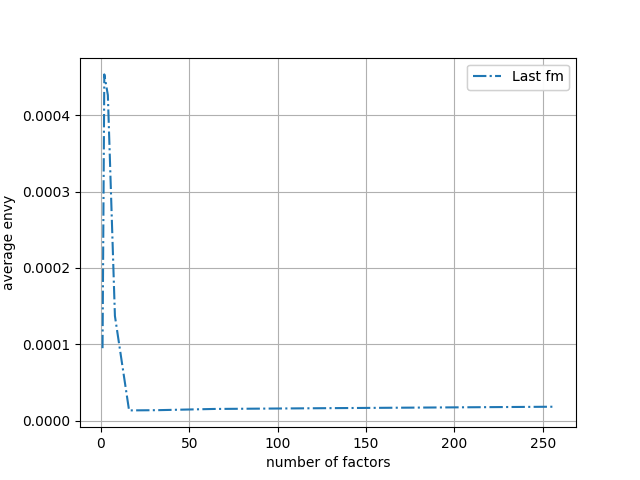
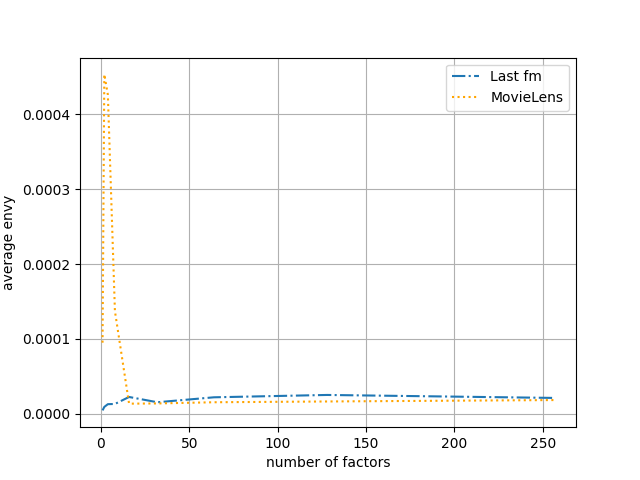
MovieLens gets processed too

Changed region(s): [[0.0312, 0.125, 0.9062, 0.75], [0.1562, 0.75, 0.875, 0.875], [0.0312, 0.8438, 0.125, 0.9062]]

diff --git a/vN/src/main.py b/vN/src/main.py
@@ -16,6 +16,7 @@ if __name__ == "__main__":
     os.environ["OPENBLAS_NUM_THREADS"] = "1"
     my_globals = globals()
 
+    # Data sets to perform experiments on
     data_sets = {   0: {"name": "movie",
                         "filename": "user_movie.py",
                         "vars": {
@@ -26,7 +27,7 @@ if __name__ == "__main__":
                             "rewards": None,
                             "expec_rewards": None
                         },
-                        "experiments_results": None
+                        "experiments_results": {}
                         },
                     1: {"name": "fm",
                         "filename": "user_artist.py",
@@ -38,12 +39,14 @@ if __name__ == "__main__":
                             "rewards": None,
                             "expec_rewards": None
                         },
-                        "experiments_results": None
+                        "experiments_results": {}
                     }
                 }
 
     # For all datas sets simulate recommendation system and run experiments
     for i, data_set in data_sets.items(): 
+        print("Starting for data set", data_set["name"], "...")
+
         # Define 'GLOBALS'
         if data_set["name"] == "fm":
             # Infix of folder to perform I/O-operations on for specifically this data set (reading, writing etc.)
@@ -62,8 +65,6 @@ if __name__ == "__main__":
         # Generate ground truth of user-item preferences
         exec(compile(open(filename, "rb").read(), filename, "exec"))
 
-        exit()
-
         ## LOAD: Load ground truth
         io.load(IO_INFIX + "ground_truth", my_globals)
 
@@ -72,7 +73,7 @@ if __name__ == "__main__":
             ground_truth = ground_truth_fm
         else:
             print("Loading ground truth MOVIE...")
-            ground_truth = ground_truth_movie
+            ground_truth = ground_truth_mv
 
         data_set["vars"]["ground_truth"] = ground_truth
 
@@ -107,7 +108,7 @@ if __name__ == "__main__":
             recommendation_system_est_models = recommendation_system_est_models_fm
         else:
             print("Loading recommender preference estimation models MOVIE...")
-            recommendation_system_est_models = recommendation_system_est_models_movie
+            recommendation_system_est_models = recommendation_system_est_models_mv
 
         data_set["vars"]["recommendation_system_est_models"] = recommendation_system_est_models
 
@@ -167,8 +168,8 @@ if __name__ == "__main__":
         else:
             print("Loading rewards MOVIE...")
             print("Loading expectations rewards...")
-            rewards = rewards_movie
-            expec_rewards = expec_rewards_movie
+            rewards = rewards_mv
+            expec_rewards = expec_rewards_mv
 
         data_set["vars"]["rewards"] = rewards
         data_set["vars"]["expec_rewards"] = expec_rewards
@@ -219,7 +220,13 @@ if __name__ == "__main__":
         io.load(IO_INFIX + experiment_dir + avg_envy_user_file, my_globals)
         io.load(IO_INFIX + experiment_dir + prop_envious_users_file, my_globals)
 
-        plot.plot_experiment_5_1A([avg_envy_user])
+        data_set["experiments_results"]["5.1"] = {
+                                                    envy_free_file: envy_free,
+                                                    avg_envy_user_file: avg_envy_user,
+                                                    prop_envious_users_file: prop_envious_users
+                                                }        
     
+    plot.plot_experiment_5_1A([data_sets[0]["experiments_results"]["5.1"]["avg_envy_user"], data_sets[1]["experiments_results"]["5.1"]["avg_envy_user"]])
+
     # # Try algorithm for one model
     # envy.OCEF(policies_fm[latent_factor], rewards_fm, 0, 3, 1, 1, 0)

diff --git a/vN/src/lib/plot.py b/vN/src/lib/plot.py
@@ -4,20 +4,16 @@ import matplotlib.pyplot as plt
 import constant
 
 def plot_experiment_5_1A(data):
-    data_1 = data[0]
+    fm = data[0]
+    mv = data[1]
 
     fig, ax = plt.subplots()
-    line1, = ax.plot(data_1.keys(), data_1.values(), label="Last fm", linestyle='-.')
+    plt.plot(fm.keys(), fm.values(), label="Last fm", linestyle='-.')
+    plt.plot(mv.keys(), mv.values(), label="MovieLens", linestyle='dotted', color="orange")
 
-    # Create a legend for the first line.
-    first_legend = ax.legend(handles=[line1], loc='upper right')
-
-    # Add the legend manually to the Axes.
-    ax.add_artist(first_legend)
+    plt.legend()
     plt.ylabel("average envy")
     plt.xlabel("number of factors")    
     plt.grid()
     plt.savefig(constant.RESULTS_FOLDER + 'experiment_5_1A.png')
     plt.show()
-
-

diff --git a/vN/src/user_movie.py b/vN/src/user_movie.py
@@ -61,7 +61,6 @@ if __name__ == "__main__":
     movies_rating_count = helper.merge_duplicates(user_movies, "movieID", "rating_count")
     movies_rating_count_ranked = movies_rating_count.sort_values(by=["rating_count"], ascending=False)
 
-    # print(movies_rating_count_ranked)
     # Get the top 2500 number of times rated items (i.e number of cumulative rating count) 
     items = np.array(movies_rating_count_ranked["movieID"])[0:2500]
 
